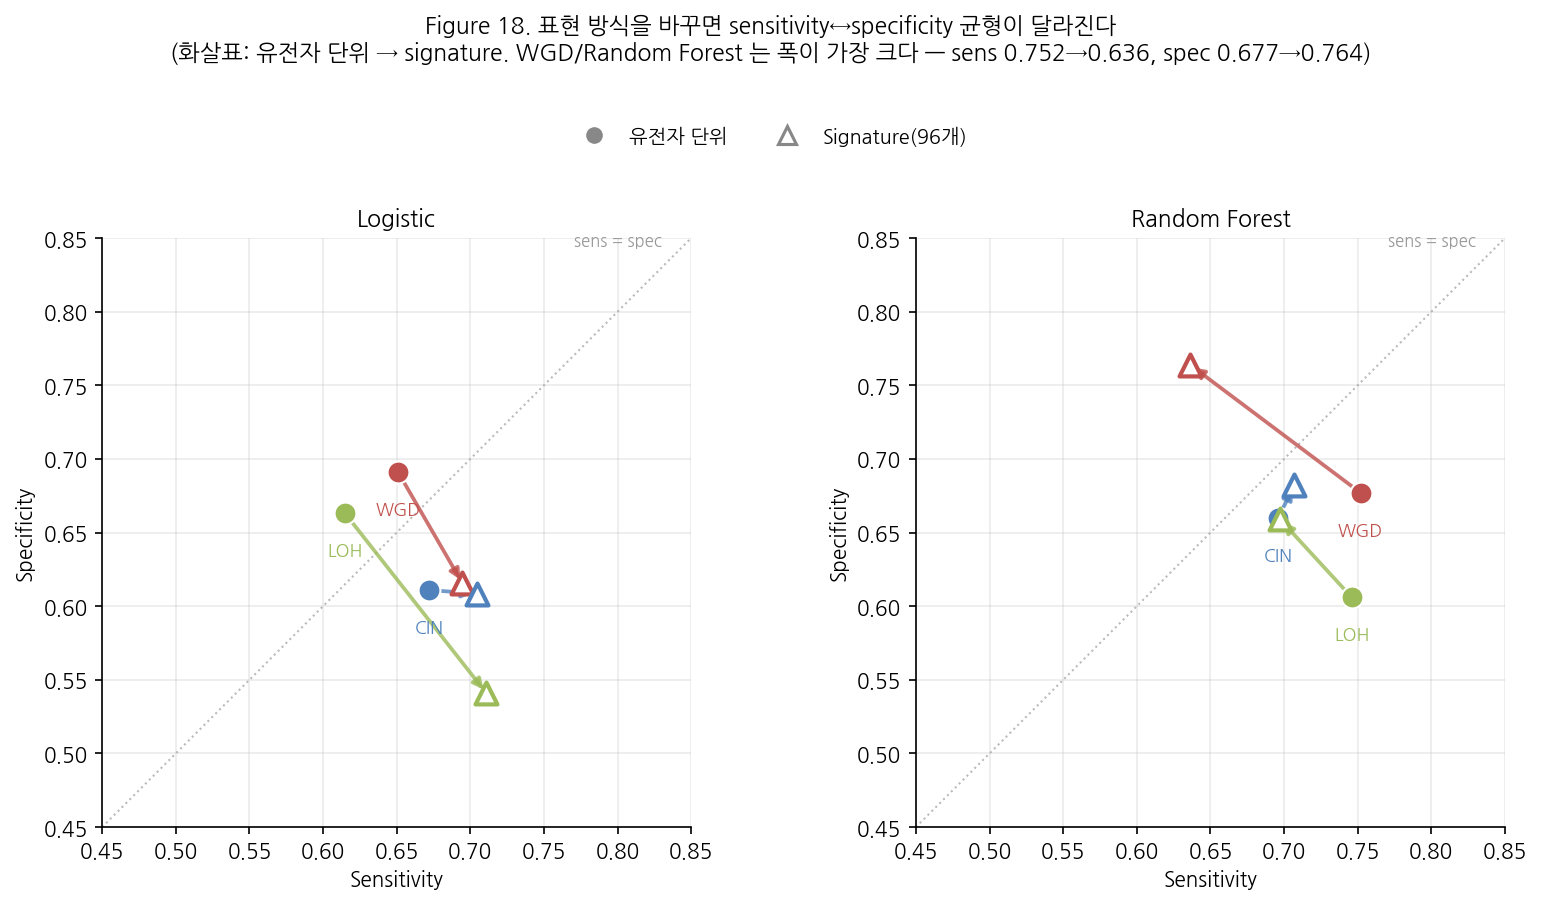
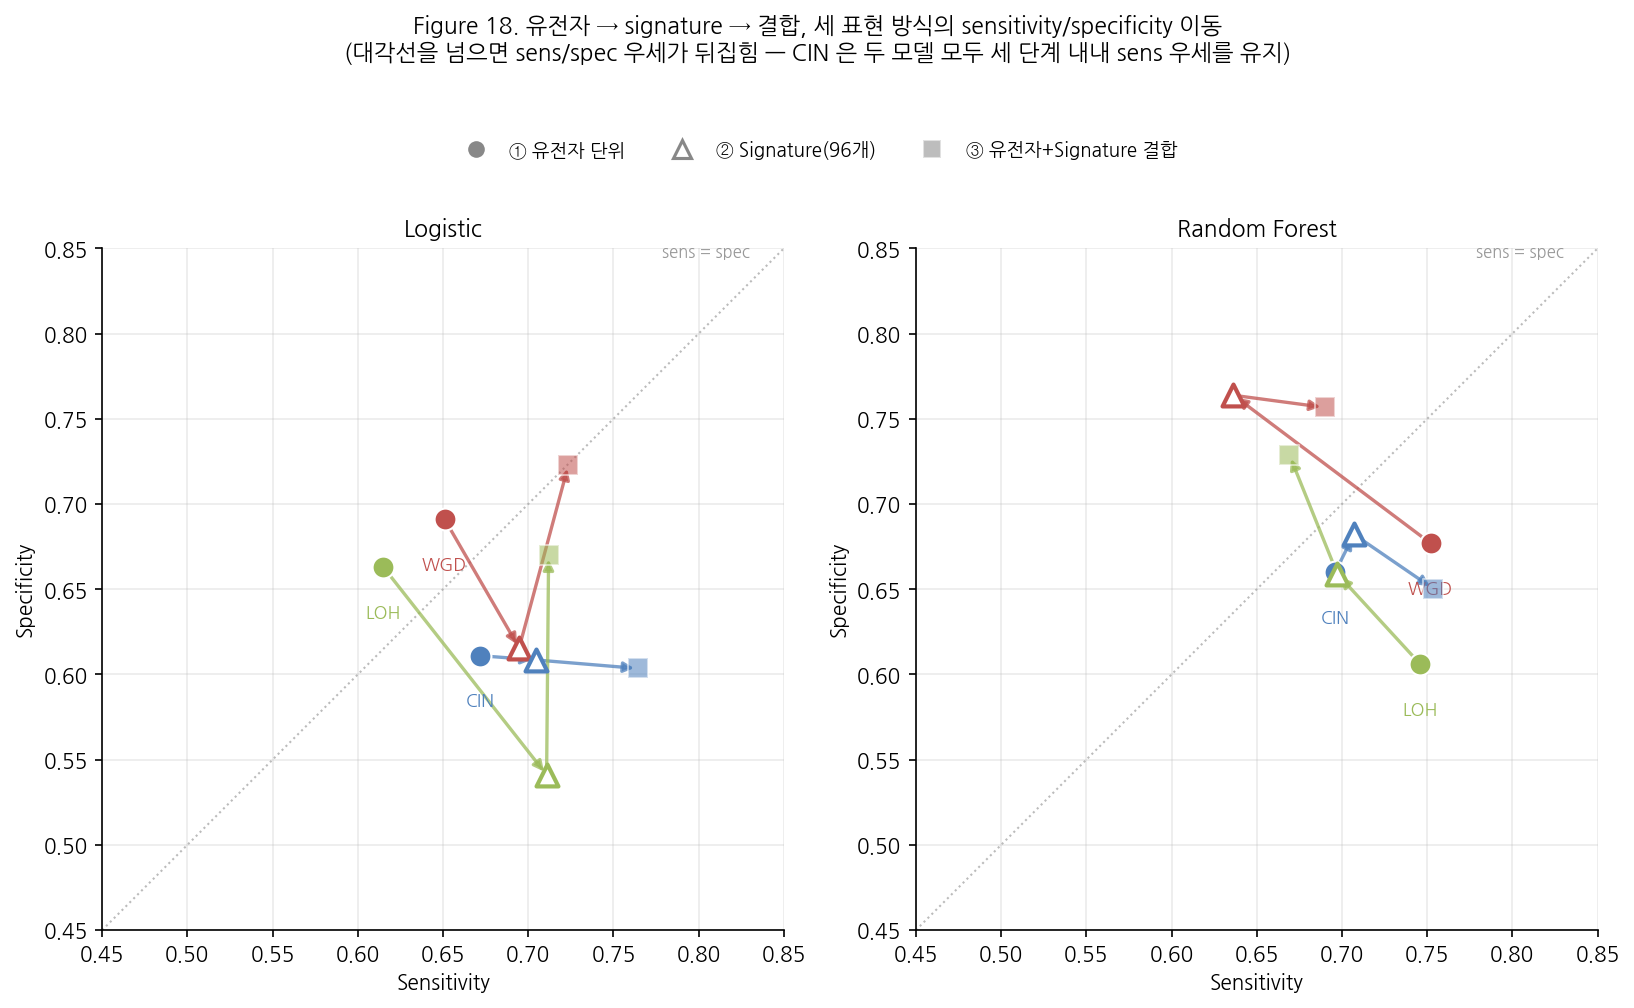
docs: Figure 18에 유전자+signature 결합 단계 추가 (3단계 이동)
기존 유전자→signature 2단계 화살표에 결합(day32 all-feature) 단계를
추가해 유전자→signature→결합 3단계 이동을 그렸다.

3단계로 보니 기존 "WGD/RF만 뒤집힌다"는 서술이 불완전했음을 발견 —
실제로는 WGD(양쪽 모델), LOH(Logistic은 ①→②, RF는 오히려 ②→③에서)
도 대각선을 넘는다. CIN만 두 모델 모두 3단계 내내 sensitivity 우세를
그대로 유지한다는 게 더 정확한 결론이라 텍스트를 표로 교체해 갱신.

diff --git a/scripts/36_plot_sens_spec_tradeoff.py b/scripts/36_plot_sens_spec_tradeoff.py
@@ -1,8 +1,13 @@
-"""Figure 18 — 유전자 단위 vs Signature(96-class) 의 sensitivity/specificity 트레이드오프.
+"""Figure 18 — 유전자 단위 -> Signature -> 유전자+Signature 결합의
+sensitivity/specificity 트레이드오프 이동.
 
-`model.md` "참고 — Mutation signature" 절에서 발견한 것: WGD 는 표현
-방식(유전자/signature)에 따라 sensitivity 우세와 specificity 우세가
-뒤집힌다. 표로는 잘 안 보이는 이 이동을 화살표로 시각화한다.
+`model.md` "참고 — Mutation signature" 절에서 발견한 것: 표현 방식을
+바꾸면(유전자 -> signature -> 결합) sensitivity 우세와 specificity
+우세가 뒤집히는 경우가 있다. 세 단계 모두를 화살표로 이어 이동
+경로를 보여준다. 결합 단계는 `scripts/32_combined_gene_signature_panel.py`
+의 "전체 feature" 행(panel_size="all")을 쓴다 — 패널을 줄이지 않은
+상태라야 §1/signature 절의 "전체 feature" 성능과 같은 기준으로
+비교된다.
 """
 
 from __future__ import annotations
@@ -23,6 +28,7 @@ TARGETS = ("wgd", "cin", "loh")
 TARGET_LABEL = {"wgd": "WGD", "cin": "CIN", "loh": "LOH"}
 MODELS = ("logistic", "random_forest")
 MODEL_LABEL = {"logistic": "Logistic", "random_forest": "Random Forest"}
+COMBINED_MODEL_OF = {"logistic": "logistic_l1", "random_forest": "random_forest"}
 
 
 def main() -> int:
@@ -30,8 +36,11 @@ def main() -> int:
     gene = pd.read_csv(TABLES / "day10_model_comparison.csv")
     sig = (pd.read_csv(TABLES / "day24_signature_summary.csv")
           .groupby(["target", "model"])[["sensitivity", "specificity"]].mean().reset_index())
+    comb_raw = pd.read_csv(TABLES / "day32_combined_panel_metrics.csv")
+    comb = (comb_raw[comb_raw.panel_size == "all"]
+           .groupby(["target", "model"])[["sensitivity", "specificity"]].mean().reset_index())
 
-    fig, axes = plt.subplots(1, 2, figsize=(11, 5.2))
+    fig, axes = plt.subplots(1, 2, figsize=(11, 5.6))
     for ax, model in zip(axes, MODELS):
         ax.plot([0.45, 0.85], [0.45, 0.85], color="#bbb", ls=":", lw=1, zorder=1)
         ax.text(0.83, 0.845, "sens = spec", fontsize=8, color="#999", ha="right")
@@ -39,16 +48,22 @@ def main() -> int:
         for target in TARGETS:
             g = gene[(gene.target == target) & (gene.model == model)].iloc[0]
             s = sig[(sig.target == target) & (sig.model == model)].iloc[0]
+            c = comb[(comb.target == target) & (comb.model == COMBINED_MODEL_OF[model])].iloc[0]
             color = PHENOTYPE_COLORS[target]
+            points = [(g.sensitivity, g.specificity), (s.sensitivity, s.specificity),
+                     (c.sensitivity, c.specificity)]
 
-            ax.annotate("", xy=(s.sensitivity, s.specificity), xytext=(g.sensitivity, g.specificity),
-                       arrowprops=dict(arrowstyle="-|>", color=color, lw=1.8, alpha=0.8), zorder=2)
-            ax.scatter(g.sensitivity, g.specificity, marker="o", s=110, color=color,
-                      edgecolor="white", linewidth=1, zorder=3, label=f"{TARGET_LABEL[target]} (유전자)")
-            ax.scatter(s.sensitivity, s.specificity, marker="^", s=110,
-                      facecolor="white", edgecolor=color, linewidth=2, zorder=3,
-                      label=f"{TARGET_LABEL[target]} (signature)")
-            ax.text(g.sensitivity, g.specificity - 0.02, TARGET_LABEL[target],
+            for (x0, y0), (x1, y1) in zip(points[:-1], points[1:]):
+                ax.annotate("", xy=(x1, y1), xytext=(x0, y0),
+                           arrowprops=dict(arrowstyle="-|>", color=color, lw=1.6, alpha=0.75), zorder=2)
+
+            ax.scatter(*points[0], marker="o", s=110, color=color, edgecolor="white",
+                      linewidth=1, zorder=3, label=f"{TARGET_LABEL[target]} 유전자")
+            ax.scatter(*points[1], marker="^", s=110, facecolor="white", edgecolor=color,
+                      linewidth=2, zorder=3, label=f"{TARGET_LABEL[target]} signature")
+            ax.scatter(*points[2], marker="s", s=100, color=color, edgecolor="white",
+                      linewidth=1, alpha=0.55, zorder=3, label=f"{TARGET_LABEL[target]} 결합")
+            ax.text(points[0][0], points[0][1] - 0.022, TARGET_LABEL[target],
                    fontsize=8.5, color=color, ha="center", va="top")
 
         ax.set_xlim(0.45, 0.85)
@@ -59,16 +74,18 @@ def main() -> int:
         ax.set_aspect("equal")
 
     handles = [
-        plt.Line2D([0], [0], marker="o", color="w", markerfacecolor="#888", markersize=9, label="유전자 단위"),
+        plt.Line2D([0], [0], marker="o", color="w", markerfacecolor="#888", markersize=9, label="① 유전자 단위"),
         plt.Line2D([0], [0], marker="^", color="w", markerfacecolor="white", markeredgecolor="#888",
-                  markeredgewidth=1.5, markersize=9, label="Signature(96개)"),
+                  markeredgewidth=1.5, markersize=9, label="② Signature(96개)"),
+        plt.Line2D([0], [0], marker="s", color="w", markerfacecolor="#888", markersize=9,
+                  alpha=0.55, label="③ 유전자+Signature 결합"),
     ]
-    fig.legend(handles=handles, loc="upper center", ncol=2, fontsize=9.5, bbox_to_anchor=(0.5, 1.02))
+    fig.legend(handles=handles, loc="upper center", ncol=3, fontsize=9, bbox_to_anchor=(0.5, 1.03))
 
     fig.suptitle(
-        "Figure 18. 표현 방식을 바꾸면 sensitivity↔specificity 균형이 달라진다\n"
-        "(화살표: 유전자 단위 → signature. WGD/Random Forest 는 폭이 가장 크다 — sens 0.752→0.636, spec 0.677→0.764)",
-        y=1.14, fontsize=11,
+        "Figure 18. 유전자 → signature → 결합, 세 표현 방식의 sensitivity/specificity 이동\n"
+        "(대각선을 넘으면 sens/spec 우세가 뒤집힘 — CIN 은 두 모델 모두 세 단계 내내 sens 우세를 유지)",
+        y=1.16, fontsize=11,
     )
     fig.tight_layout()
     path = save(fig, "fig18_sens_spec_tradeoff.png")

diff --git a/docs/research/2026-08-19/model.md b/docs/research/2026-08-19/model.md
@@ -89,14 +89,32 @@ specificity 가 더 높다. Balanced accuracy(0.715 vs 0.700)는 비슷해도
 않다. Brier(확률 보정)는 세 표현형 모두 signature 쪽이 근소하게
 낮다(더 좋다) — 특히 WGD 는 0.204→0.188.
 
+**① 유전자 단위 → ② signature(96개) → ③ 유전자+signature 결합**(biomarker_panel.md
+§5, `panel_size="all"` 기준)까지 세 단계를 이어서 보면 그림이 더
+분명해진다.
+
 ![Figure 18](../../../results/figures/fig18_sens_spec_tradeoff.png)
 
-Figure 18 에 유전자→signature 이동을 화살표로 그렸다. **WGD·Random
-Forest 의 화살표만 sens=spec 대각선을 가로질러 반대편으로 넘어간다**
-— CIN·LOH 는 두 모델 모두 대각선 아래(sensitivity 우세) 쪽에 머무는
-반면, WGD·RF 만 대각선을 넘어 specificity 우세 쪽으로 이동한다. 표현
-방식 전환이 트레이드오프의 "정도"만 바꾸는 게 아니라 "방향" 자체를
-바꾸는 유일한 조합이라는 뜻이다.
+| 표현형 | 모델 | ①→②→③ sens/spec 우세 | 대각선을 넘는 지점 |
+| --- | --- | --- | --- |
+| WGD | Logistic | spec우세 → sens우세 → sens우세 | ①→② |
+| WGD | Random Forest | sens우세 → spec우세 → spec우세 | ①→② |
+| CIN | Logistic | sens우세 → sens우세 → sens우세 | 없음 |
+| CIN | Random Forest | sens우세 → sens우세 → sens우세 | 없음 |
+| LOH | Logistic | spec우세 → sens우세 → sens우세 | ①→② |
+| LOH | Random Forest | sens우세 → sens우세 → **spec우세** | ②→③ |
+
+**CIN 만 두 모델 모두, 세 단계 내내 sensitivity 우세를 그대로
+유지한다** — 표현 방식을 뭘 쓰든 CIN 의 오류 패턴(양성을 더 잘
+잡고 음성을 더 놓치는 방향)은 안정적이라는 뜻이다. 반대로 WGD 와
+LOH 는 최소 한 번은 대각선을 넘는다 — WGD 는 ①→②(유전자→signature)
+단계에서, LOH·Random Forest 는 오히려 ②→③(signature→결합) 단계에서
+넘어간다는 점이 다르다. **즉 "표현 방식을 바꾸면 트레이드오프
+방향이 흔들리는 표현형(WGD, LOH)"과 "안 흔들리는 표현형(CIN)"이
+갈린다** — 어떤 표현으로 패널을 배포하든 CIN 은 예측 가능한 오류
+패턴을 유지하지만, WGD·LOH 는 어떤 조합을 쓰느냐에 따라 "어느 쪽
+오류를 감수할지"가 달라질 수 있다는 뜻이라 실무 적용 시 주의가
+필요하다.
 
 재현: `python scripts/36_plot_sens_spec_tradeoff.py`.
 
